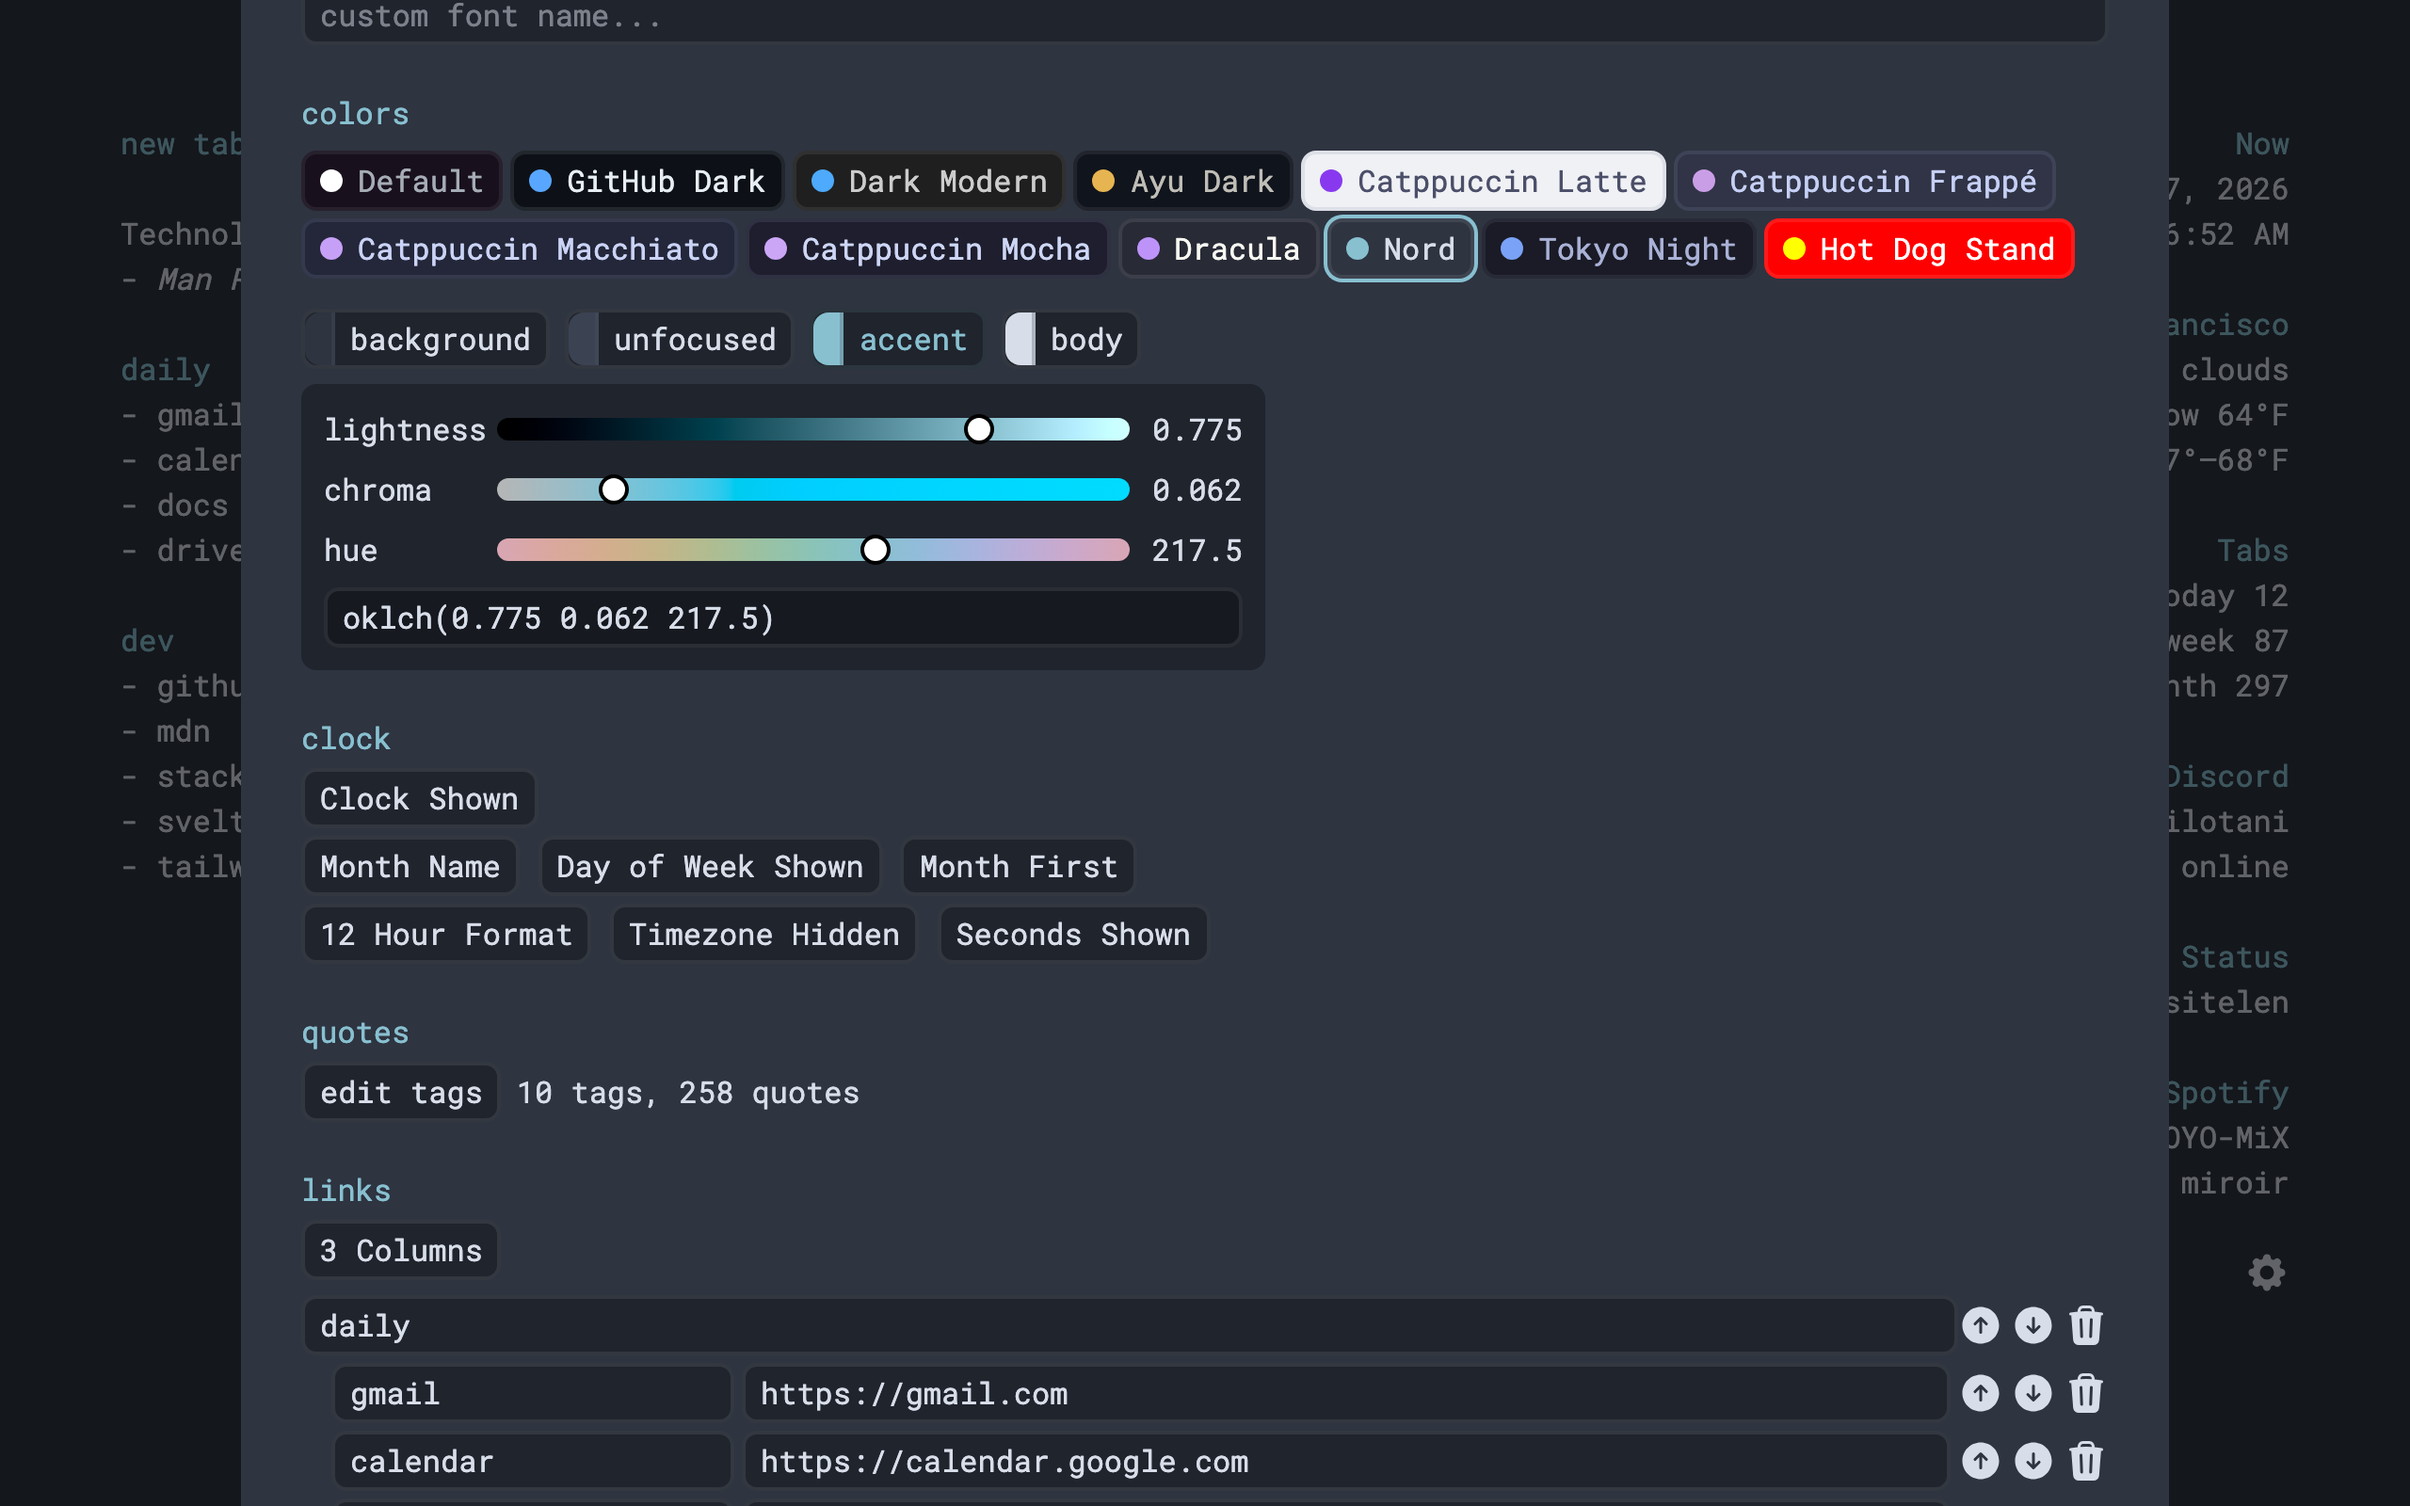
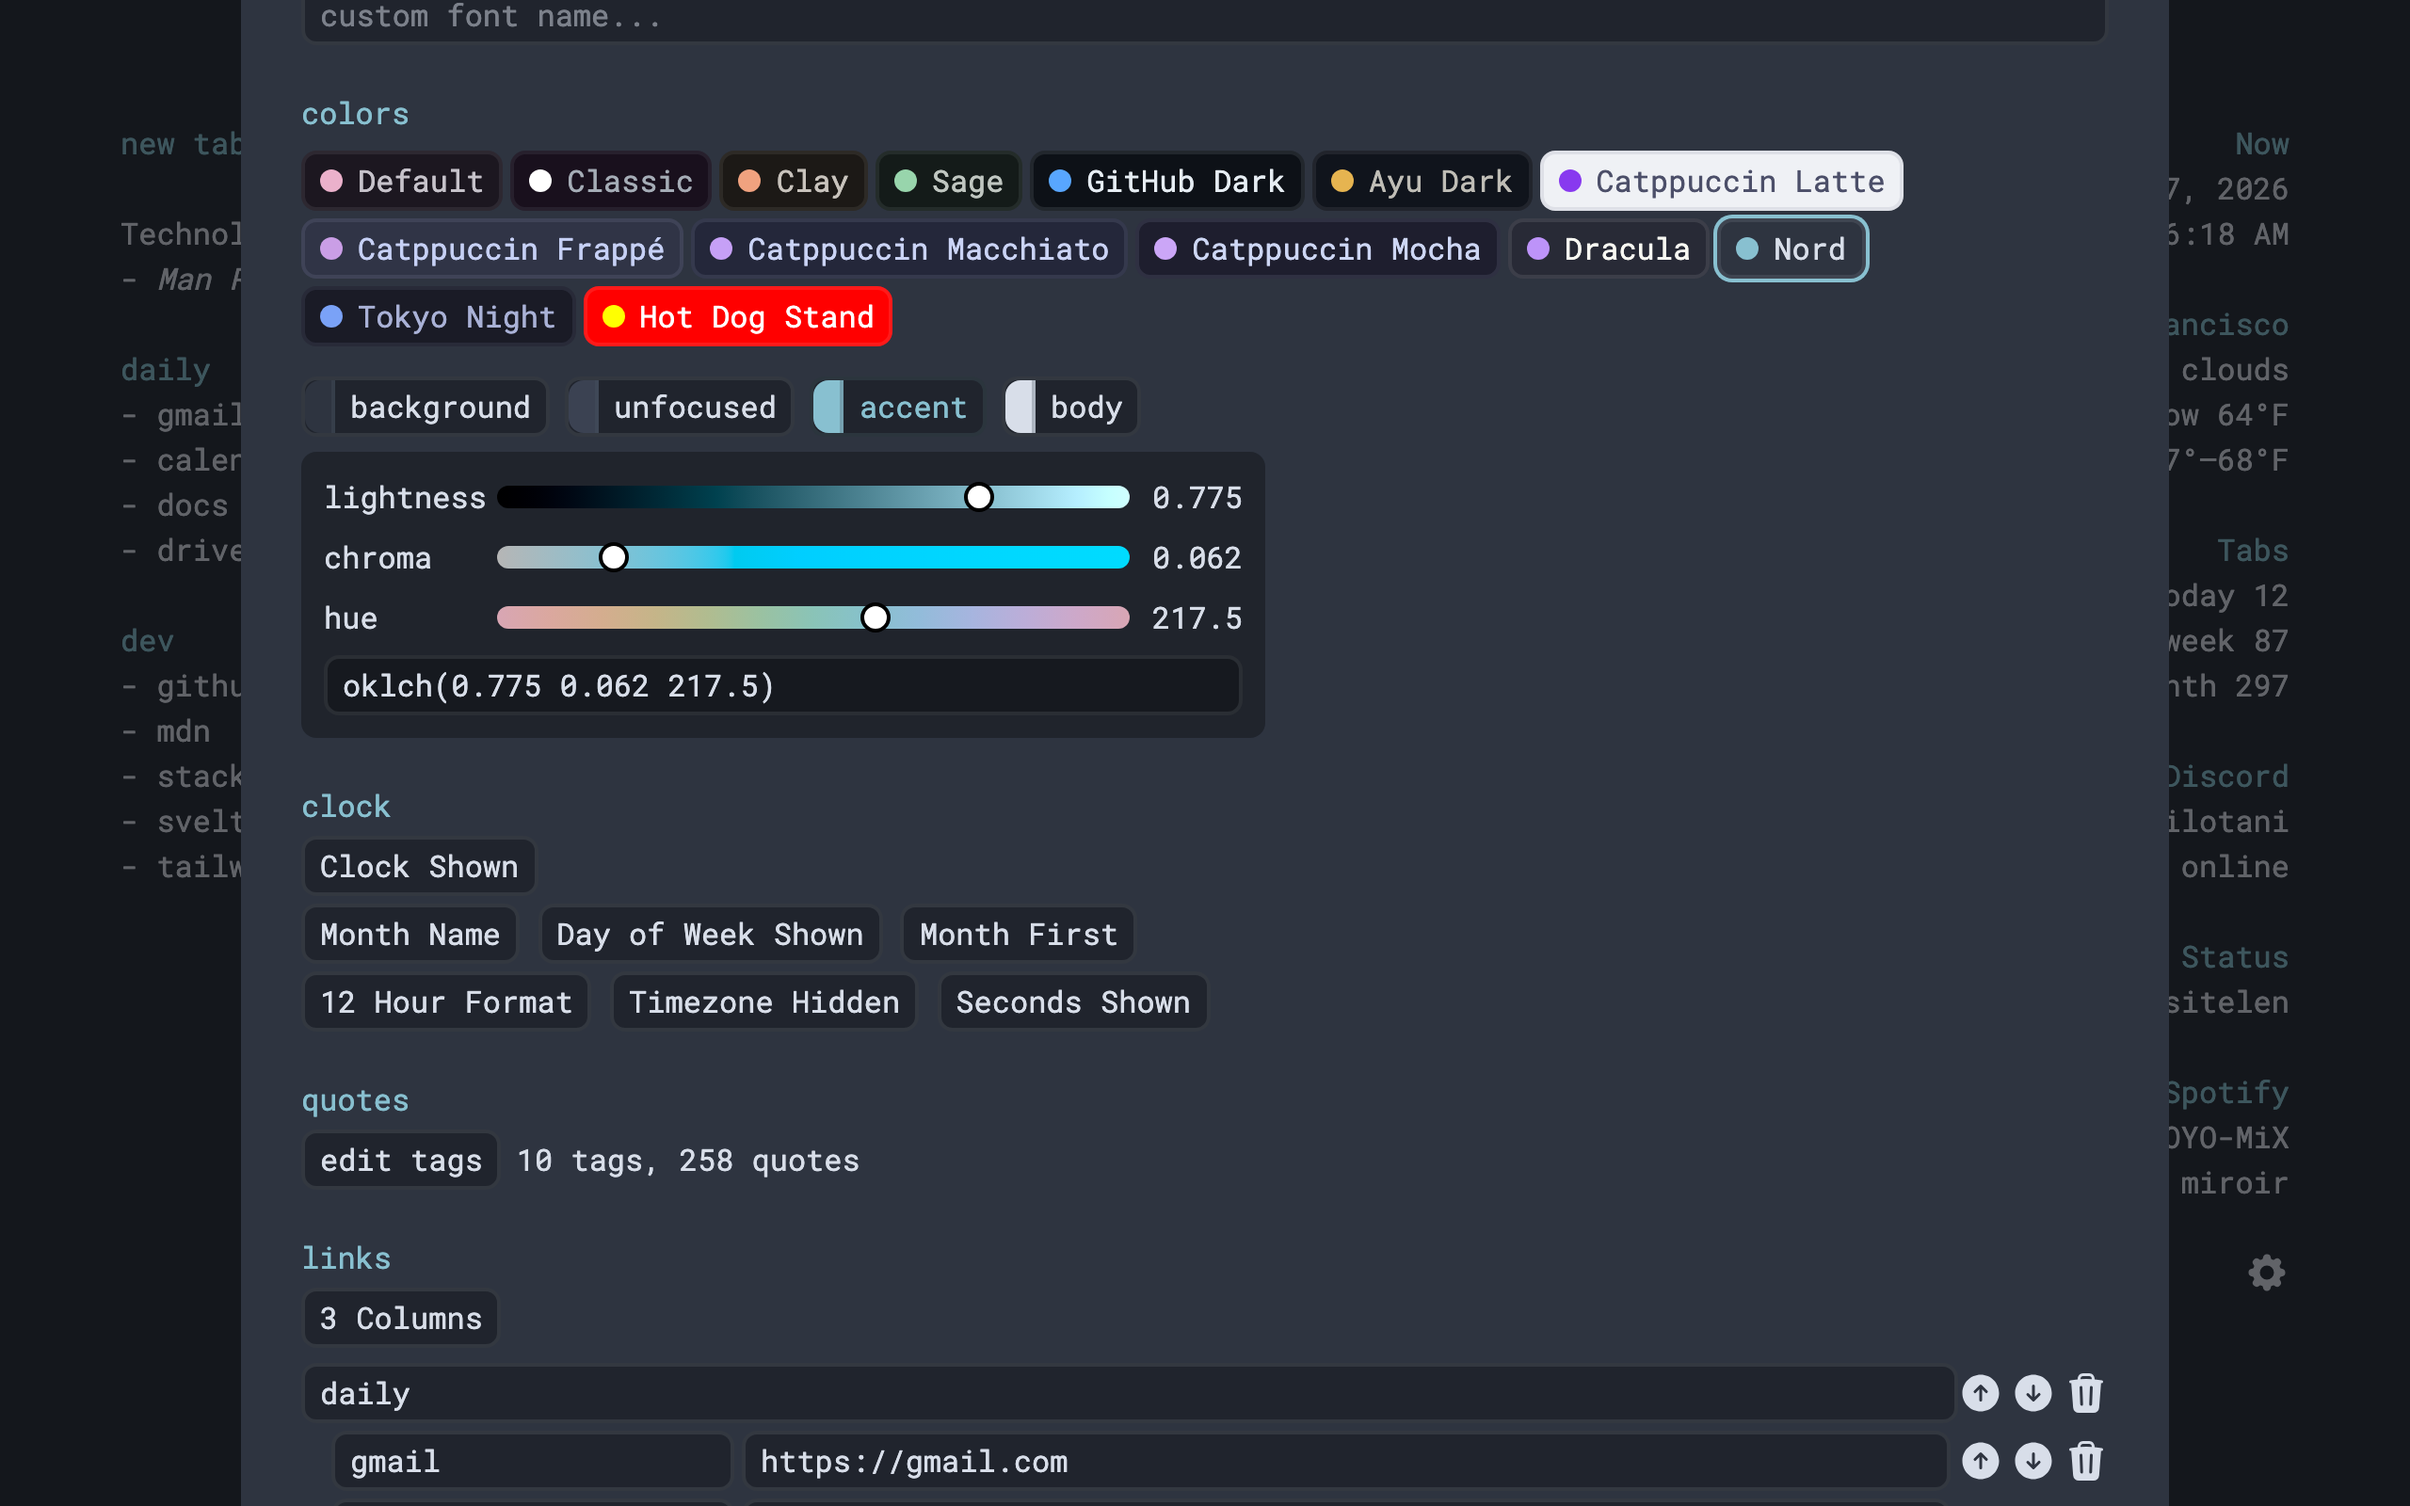
better default theme

diff --git a/public/theme.js b/public/theme.js
@@ -19,7 +19,7 @@ function readSetting(key, apply) {
 
 // also called from src/lib/stores.svelte.ts when the colors change
 // svg created with Figma
-function setFavicon({ background = '#19101d', accent = '#ffffff' }) {
+function setFavicon({ background = '#1c1720', accent = '#ebb1cb' }) {
 	const svg = `<svg width="96" height="96" viewBox="0 0 96 96" fill="none" xmlns="http://www.w3.org/2000/svg">
 <path d="M0 12C0 5.37258 5.37258 0 12 0H84C90.6274 0 96 5.37258 96 12V84C96 90.6274 90.6274 96 84 96H12C5.37258 96 0 90.6274 0 84V12Z" fill="${background}"/>
 <path d="M30.5906 74.9063C30.0281 74.9063 29.55 74.7375 29.1562 74.4C28.8187 74.0063 28.65 73.5281 28.65 72.9656V32.9719C28.65 32.4094 28.8187 31.9594 29.1562 31.6219C29.55 31.2281 30.0281 31.0312 30.5906 31.0312H34.5562C35.1187 31.0312 35.5687 31.2281 35.9062 31.6219C36.3 31.9594 36.4969 32.4094 36.4969 32.9719V36.6844C37.9594 34.7719 39.7875 33.225 41.9812 32.0438C44.2312 30.8063 47.1 30.1875 50.5875 30.1875C54.2437 30.1875 57.3375 31.0031 59.8687 32.6344C62.4562 34.2094 64.3969 36.4313 65.6906 39.3C66.9844 42.1125 67.6312 45.4031 67.6312 49.1719V72.9656C67.6312 73.5281 67.4625 74.0063 67.125 74.4C66.7875 74.7375 66.3375 74.9063 65.775 74.9063H61.5562C60.9937 74.9063 60.5156 74.7375 60.1219 74.4C59.7844 74.0063 59.6156 73.5281 59.6156 72.9656V49.5938C59.6156 45.6563 58.6594 42.5906 56.7469 40.3969C54.8344 38.1469 52.0219 37.0219 48.3094 37.0219C44.8219 37.0219 42.0094 38.1469 39.8719 40.3969C37.7906 42.5906 36.75 45.6563 36.75 49.5938V72.9656C36.75 73.5281 36.5531 74.0063 36.1594 74.4C35.8219 74.7375 35.3719 74.9063 34.8094 74.9063H30.5906Z" fill="${accent}"/>

diff --git a/src/lib/themes.ts b/src/lib/themes.ts
@@ -3,10 +3,18 @@ export interface Theme {
 	colors: Record<'background' | 'unfocused' | 'accent' | 'body', string>;
 }
 
-// converted from each theme's published hex palette
 export const themes: Theme[] = [
 	{
 		name: 'Default',
+		colors: {
+			background: 'oklch(0.215 0.018 310)',
+			unfocused: 'oklch(0.185 0.016 310)',
+			accent: 'oklch(0.82 0.075 350)',
+			body: 'oklch(0.82 0.012 310)'
+		}
+	},
+	{
+		name: 'Classic',
 		colors: {
 			background: 'oklch(0.191 0.029 315.1)',
 			unfocused: 'oklch(0.235 0 0)',
@@ -15,21 +23,31 @@ export const themes: Theme[] = [
 		}
 	},
 	{
+		name: 'Clay',
+		colors: {
+			background: 'oklch(0.215 0.008 60)',
+			unfocused: 'oklch(0.185 0.007 60)',
+			accent: 'oklch(0.78 0.105 45)',
+			body: 'oklch(0.82 0.012 80)'
+		}
+	},
+	{
+		name: 'Sage',
+		colors: {
+			background: 'oklch(0.215 0.012 175)',
+			unfocused: 'oklch(0.185 0.011 175)',
+			accent: 'oklch(0.82 0.085 155)',
+			body: 'oklch(0.82 0.012 150)'
+		}
+	},
+	// the rest are converted from each theme's published hex palette
+	{
 		name: 'GitHub Dark',
 		colors: {
 			background: 'oklch(0.176 0.014 258.4)',
 			unfocused: 'oklch(0.104 0.019 248.3)',
 			accent: 'oklch(0.715 0.152 253.3)',
 			body: 'oklch(0.943 0.011 243.7)'
-		}
-	},
-	{
-		name: 'Dark Modern',
-		colors: {
-			background: 'oklch(0.239 0 0)',
-			unfocused: 'oklch(0.209 0 0)',
-			accent: 'oklch(0.718 0.149 248.2)',
-			body: 'oklch(0.845 0 0)'
 		}
 	},
 	{

diff --git a/index.html b/index.html
@@ -10,7 +10,7 @@
 		<meta name="color-scheme" content="dark" />
 		<style>
 			html {
-				background: var(--background, #19101d);
+				background: var(--background, #1c1720);
 			}
 		</style>
 		<link id="favicon" rel="icon" href="favicon.ico" />

diff --git a/src/lib/components/ColorPicker.svelte b/src/lib/components/ColorPicker.svelte
@@ -118,7 +118,7 @@
 	{/each}
 
 	<Text
-		placeholder="#19101d or oklch(0.19 0.03 315)"
+		placeholder="#1c1720 or oklch(0.215 0.018 310)"
 		bind:value={text}
 		on:input={setText}
 	/>

diff --git a/README.md b/README.md
@@ -12,7 +12,7 @@ A minimalistic, configurable new tab page. Works with Chromium-based browsers an
 - Minimalistic design.
 - Easy to configure.
   ![Screenshot](docs/settings.png)
-- Organized your links into sections and columns.
+- Organize your links into sections and columns.
   ![Screenshot](docs/links.png)
 - Use a preset theme or craft your own.
   ![Screenshot](docs/colors.png)
